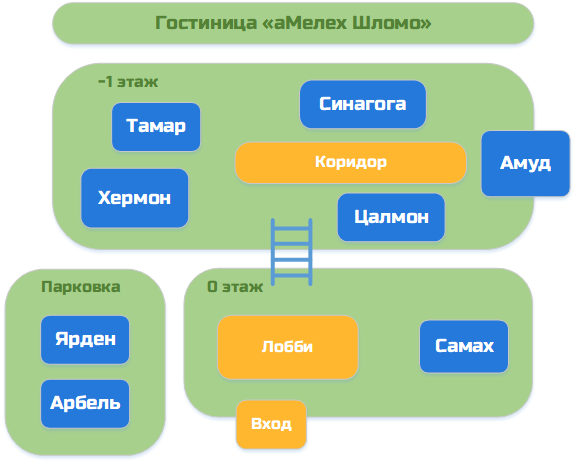
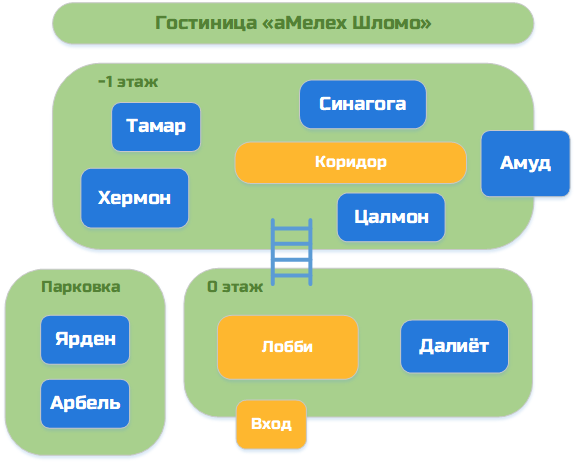
limmud 2025

Changed region(s): [[0.6875, 0.6652, 0.875, 0.8164]]

diff --git a/assets/js/notify.js b/assets/js/notify.js
@@ -12,7 +12,6 @@ function check_notify() {
         buttonText = 'סגור';
       }
       if (msg && 
-          (Date.now() > Date.parse(data['not_before'])) &&
           (Date.now() < Date.parse(data['not_after'])) &&
           ((localStorage.hasOwnProperty('webapp_notify_timestamp') === false) ||
            (localStorage['webapp_notify_timestamp'] < data['timestamp']))) {

diff --git a/index.html b/index.html
@@ -1,0 +1,6 @@
+<!DOCTYPE html>
+<html lang="en">
+<body>
+<a href="limmud2016/index.html">Limmud Eilat 2016</a>
+</body>
+</html>

diff --git a/generate.php b/generate.php
@@ -27,6 +27,10 @@ function get_client()
         $refresh_token = $client->getRefreshToken();
         if ($refresh_token) {
             $accessToken = $client->fetchAccessTokenWithRefreshToken($refresh_token);
+            if (array_key_exists('error', $accessToken)) {
+                $desc = isset($accessToken['error_description']) ? ' - ' . $accessToken['error_description'] : '';
+                throw new Exception('Google refused to refresh the token (' . $accessToken['error'] . $desc . '). Re-authorize via get_token.php');
+            }
             if (!array_key_exists('refresh_token', $accessToken)) {
                 $accessToken['refresh_token'] = $refresh_token;
             }
@@ -235,6 +239,7 @@ function parse_sheets($client, $config)
     # parse locations
     $locations = array();
     $locations_map = array();
+    $locations_name2 = array();
     $header = $service->spreadsheets_values->get($sheet_id, $config['location_sheet'] . '!A1:1')->getValues()[0];
     $rows = $service->spreadsheets_values->get($sheet_id, $config['location_sheet'] . '!A2:AZ')->getValues();
     foreach ($rows as $row) {
@@ -259,8 +264,12 @@ function parse_sheets($client, $config)
             $location = $room;
             $location2 = $room2;
         }
-        $locations[$id] = array('id' => $id, 'name' => $location, 'name2' => $location2);
+
+        if (!array_key_exists($id, $locations)) {
+            $locations[$id] = array('id' => $id, 'name' => $location, 'name2' => $location2);
+        }
         $locations_map[$location] = $id;
+        $locations_name2[$location] = $location2;
     }
     ksort($locations);
 
@@ -518,9 +527,8 @@ function parse_sheets($client, $config)
         $tmp_room = get_cell($header, $row, $config['schedule_room_column'], '');
         if (!empty($tmp_room)) {
             $room = $tmp_room;
-            if (array_key_exists($room, $locations_map)) {
-                $location_id = $locations_map[$room];
-                $room2 = $locations[$location_id]['name2'];
+            if (array_key_exists($room, $locations_name2)) {
+                $room2 = $locations_name2[$room];
             } else {
                 $room2 = $room;
             }
@@ -661,6 +669,7 @@ function parse_sheets($client, $config)
             $location_id = count($locations);
             $locations[$location_id] = array('id' => $location_id, 'name' => $location, 'name2' => $location2);
             $locations_map[$location] = $location_id;
+            $locations_name2[$location] = $location2;
         }
 
         # update speakers
@@ -1086,7 +1095,7 @@ function checkWidth($columns)
 }
 
 
-function foldByRooms($sessions, $speakers, $tracks, $config, $lang) {
+function foldByRooms($sessions, $speakers, $locations, $tracks, $config, $lang) {
     global $days_ru;
     global $months_ru;
     global $months_short_ru;
@@ -1189,6 +1198,7 @@ function foldByRooms($sessions, $speakers, $tracks, $config, $lang) {
             'title2' => $session['title2'],
             'location' => $session['location']['name'],
             'location2' => $session['location']['name2'],
+            'location_id' => $session['location']['id'],
             'is_cancelled' => ($session['location']['name'] == 'Отмена'),
             'speakers_list' => $speakersList,
             'many_speakers_list' => $manySpeakersList,
@@ -1239,8 +1249,14 @@ function foldByRooms($sessions, $speakers, $tracks, $config, $lang) {
                     $dates[$date]['rooms'][] = $room;
                     $room = array('sessions' => array(), 'valid' => false);
                 }
-                $room['name'] = $dates[$date]['sessions'][$key]['location'];
-                $room['name2'] = $dates[$date]['sessions'][$key]['location2'];
+                $location_id = $dates[$date]['sessions'][$key]['location_id'];
+                if (array_key_exists($location_id, $locations)) {
+                    $room['name'] = $locations[$location_id]['name'];
+                    $room['name2'] = $locations[$location_id]['name2'];
+                } else {
+                    $room['name'] = $dates[$date]['sessions'][$key]['location'];
+                    $room['name2'] = $dates[$date]['sessions'][$key]['location2'];
+                }
                 $room['sessions'][] = $dates[$date]['sessions'][$key];
                 $room['valid'] = true;
                 $prevLocation = $room['name'];
@@ -1436,8 +1452,8 @@ function generate()
 
     $model['timeList'] = foldByTime($sessions, $speakers, $tracks, $config, 'primary');
     $model['timeList2'] = foldByTime($sessions, $speakers, $tracks, $config, 'secondary');
-    $model['roomsList'] = foldByRooms($sessions, $speakers, $tracks, $config, 'primary');
-    $model['roomsList2'] = foldByRooms($sessions, $speakers, $tracks, $config, 'secondary');
+    $model['roomsList'] = foldByRooms($sessions, $speakers, $locations, $tracks, $config, 'primary');
+    $model['roomsList2'] = foldByRooms($sessions, $speakers, $locations, $tracks, $config, 'secondary');
     $model['speakersList'] = foldBySpeakers($sessions, $speakers, $tracks, $config, 'primary');
     $model['speakersList2'] = foldBySpeakers($sessions, $speakers, $tracks, $config, 'secondary');
 

diff --git a/admin.php b/admin.php
@@ -178,7 +178,7 @@
         function updateConfig() {
           $("#config-status").html('');
           jQuery.ajax({
-            url: 'config.php',
+            url: 'save_settings.php',
             data: 'sheet_id='+$("#sheet-id").val()+'&app_name='+$("#app-name").val(),
             type: 'POST',
 		        success: function(data){
@@ -189,7 +189,7 @@
               }
 		        },
 		        error:function(){
-              $("#config-status").html('<p class="error">ERROR: Cannot execute config.php</p>');
+              $("#config-status").html('<p class="error">ERROR: Cannot execute save_settings.php</p>');
             }
 		      });
 	      }         
@@ -198,7 +198,7 @@
           $("#generate-status").html('<p class="info">Copying assets</p>');
           jQuery.ajax({
             url: 'copy_assets.php',
-            data: '',
+            data: 'run=1',
             type: 'POST',
     		    success: function(data){
               if (data.includes('ERROR')) {
@@ -217,7 +217,7 @@
           $("#generate-status").html('<p class="info">Generating WebApp</p>');
           jQuery.ajax({
             url: 'generate.php',
-            data: '',
+            data: 'run=1',
             type: 'POST',
             success: function(data){
               if (data.includes('ERROR')) {
